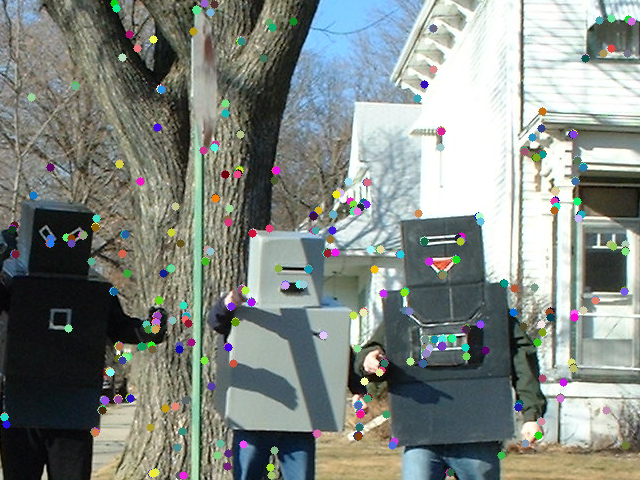
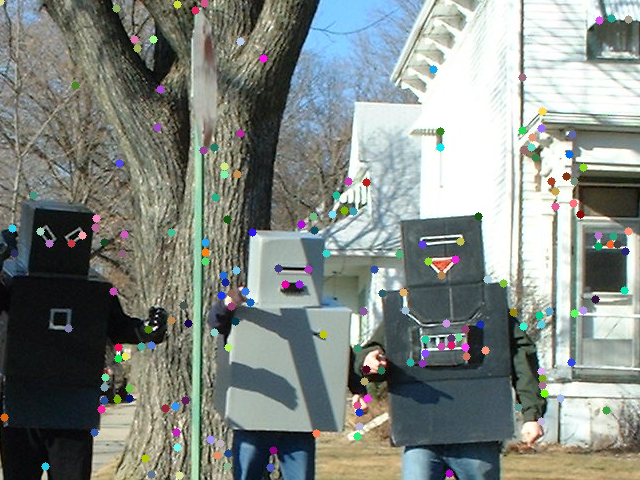
Fixed my non-maximum suppression error

diff --git a/Project_4/proj4-1-3/Gradient.cpp b/Project_4/proj4-1-3/Gradient.cpp
@@ -237,14 +237,14 @@ cv::Mat Gradient::GetHarris( double _coeff )
 /**
  * @function GetHarrisPoints
  */
-std::vector<cv::Point> Gradient::GetHarrisPoints( int _thresh, int _radius )
+std::vector<cv::Point2f> Gradient::GetHarrisPoints( int _thresh, int _radius )
 {
    mThresh = _thresh; /** 0-255 */
    mRadius = _radius; /** 3, 11? */
    // You should have called getImageHarris previously
    Thresholding( mImageHarris, mImageThresholded );
    Suppression( mImageThresholded, mImageSuppressed );
-
+  
    return mHarrisPoints;
 }
 
@@ -255,15 +255,15 @@ std::vector<cv::Point> Gradient::GetHarrisPoints( int _thresh, int _radius )
 void Gradient::Thresholding( const cv::Mat &_img, cv::Mat &_thresholded )
 {
    // Thresholding
+//   cv::threshold( _img, _thresholded, mThresh, 255, cv::THRESH_TOZERO ); 
    cv::threshold( _img, _thresholded, mThresh, 255, cv::THRESH_TOZERO ); 
-
    // Saving points
    mThreshPoints.resize(0);
    for( unsigned int j = 0; j < mRows; j++ )
    {  for( unsigned int i = 0; i < mCols; i++ )
       {
          if( _thresholded.at<uchar>(j,i) != 0 )
-         { mThreshPoints.push_back(cv::Point(i,j)); }
+         { mThreshPoints.push_back(cv::Point2f(i,j)); }
       }
    }
  
@@ -277,32 +277,43 @@ void Gradient::Suppression( const cv::Mat &_img, cv::Mat &_suppressed )
 {
    cv::Mat w;
    uchar minVal; uchar maxVal;
+   int maxIndX; int maxIndY;
+   int minIndX; int minIndY;
+
+   _suppressed = _img.clone();
 
    for( unsigned int j = 0; j < mRows - mRadius; j++ )
    {  for( unsigned int i = 0; i < mCols - mRadius; i++ )
       {
-         maxVal = 0; minVal = 255;
+         maxVal = (uchar)mThresh; minVal = 255;
 
          /// Find  min and max
-         for( unsigned int n = 0; n < mRadius; n++ )
-         {  for( unsigned int m = 0; m < mRadius; m++ )
-            {  if( _img.at<uchar>( j+n, i+m ) > maxVal )
-               { maxVal = _img.at<uchar>(j+n, i+m); }
-               if( _img.at<uchar>(j+n,i+m) < minVal )
-               { minVal = _img.at<uchar>(j+n,i+m); }
+         for( int n = mRadius; n >= -mRadius; n-- )
+         {  for( int m = mRadius; m >= -mRadius; m-- )
+            {  
+               int im = i + m; int jn = j + n;
+               if( im < 0 || im >= mCols || jn < 0 || jn >= mRows )
+               {  continue; }
+
+               if( _suppressed.at<uchar>( jn, im ) >= maxVal )
+               { maxVal = _suppressed.at<uchar>(jn, im); maxIndX = im; maxIndY = jn; }
+               if( _suppressed.at<uchar>(jn,im) < minVal )
+               { minVal = _suppressed.at<uchar>(jn, im); minIndX = im; minIndY = jn;  }
             }
          }
 
          /// Suppress!
-         for( unsigned int n = 0; n < mRadius; n++ )
-         {  for( unsigned int m = 0; m < mRadius; m++ )
-            {  if( _img.at<uchar>( j+n, i+m ) >= maxVal && maxVal != minVal )
-               { _suppressed.at<uchar>(j+n,i+m) = 255; }
-               else
-               { _suppressed.at<uchar>(j+n,i+m) = 0; }
+         for( int n = -mRadius; n <= mRadius; n++ )
+         {  for( int m = -mRadius; m <= mRadius; m++ )
+            {  
+               int im = i + m; int jn = j + n;
+               if( im < 0 || im >= mCols || jn < 0 || jn >= mRows )
+               {  continue; }
+               _suppressed.at<uchar>( jn, im ) = 0;               
             }
          }
-
+         /// Keep the max value
+         _suppressed.at<uchar>( maxIndY, maxIndX ) = maxVal;
       }
    }
 
@@ -311,11 +322,12 @@ void Gradient::Suppression( const cv::Mat &_img, cv::Mat &_suppressed )
    for( unsigned int j = 0; j < mRows; j++ )
    {  for( unsigned int i = 0; i < mCols; i++ )
       {
-         if( _suppressed.at<uchar>(j,i) == 255 )
-         { mHarrisPoints.push_back(cv::Point(i,j)); }
+         if( _suppressed.at<uchar>(j,i) >  0 )
+         { mHarrisPoints.push_back(cv::Point2f(i,j)); }
       }
    }
 }
+
 
 /**
  * @function GetImageGradientX
@@ -539,6 +551,21 @@ cv::Mat Gradient::GetImageHarris()
    return mImageHarris;
 }
 
+/**
+ * @function GetImageSuppressed
+ */
+cv::Mat Gradient::GetImageSuppressed()
+{
+   return mImageSuppressed;
+}
+
+/**
+ * @function GetImageThresholded
+ */
+cv::Mat Gradient::GetImageThresholded()
+{
+   return mImageThresholded;
+}
 
 /**
  * @function GetWindow

diff --git a/Project_4/proj4-1-3/proj4-1-3.cpp b/Project_4/proj4-1-3/proj4-1-3.cpp
@@ -7,12 +7,14 @@
 #include "Gradient.h"
 
 char* windowCorners = "Detected corners";
+char* windowThresholded = "Threshold";
+char* windowSuppressed = "Suppression";
 cv::Mat img_corners;
 cv::Mat img;
 cv::Mat imgColor;
 cv::Mat img_harris;
-int thresh = 160;
-int radius = 14;
+int thresh = 132;
+int radius = 3;
 int maxRadius = 20;
 int maxThresh = 255;
 
@@ -41,10 +43,13 @@ int main( int argc, char* argv[] )
 
    // Get gradient here
    g.GetGradients();
-   g.GetHarris( 0.106 );
+   g.GetHarris( 0.05 );
    img_harris = g.GetImageHarris();
+   
 
    cv::namedWindow( windowCorners, CV_WINDOW_NORMAL );
+   cv::namedWindow( windowSuppressed, CV_WINDOW_NORMAL );
+   cv::namedWindow( windowThresholded, CV_WINDOW_NORMAL );
    cv::createTrackbar("Thresh", windowCorners, &thresh, maxThresh, OnThresh );
    cv::createTrackbar("Radius", windowCorners, &radius, maxRadius, OnThresh );
    OnThresh(0, 0);
@@ -61,20 +66,33 @@ int main( int argc, char* argv[] )
  */
 void OnThresh( int, void* )
 {
-   std::vector<cv::Point> hp = g.GetHarrisPoints( thresh, radius );
-   printf("--> Number of corners: %d \n", hp.size() );
+   std::vector<cv::Point2f> hp = g.GetHarrisPoints( thresh, radius );
+   printf("--> Number of suppression points: %d -- threshold: %d \n", hp.size(), g.mThreshPoints.size() );
 
    img_corners = imgColor.clone();
 
    for( size_t i = 0; i < hp.size(); i++ )
    {
+      //circle( img_corners, hp[i], radius, cv::Scalar(rng.uniform(0,255), rng.uniform(0,255), rng.uniform(0,255)), 1, 8, 0 );
       circle( img_corners, hp[i], 4, cv::Scalar(rng.uniform(0,255), rng.uniform(0,255), rng.uniform(0,255)), -1, 8, 0 );
    }
 
    // Save results
    imwrite( "proj4-1-3-corners.png", img_corners );
-
+/*
+   FILE *pCorners;
+   pCorners = fopen("Corners.txt", "w");
+   for( int i = 0; i < hp.size(); i++ )
+   { fprintf( pCorners, "%f  %f \n", hp[i].x, hp[i].y  ); }
+   fclose(pCorners);
+*/
    cv::imshow( windowCorners, img_corners );
+   cv::imshow( windowSuppressed, g.GetImageSuppressed() );
+   cv::imshow( windowThresholded, g.GetImageThresholded() );
+/*
+   imwrite( "proj4-1-3-suppressed.png", g.GetImageSuppressed() );
+   imwrite( "proj4-1-3-thresholded.png", g.GetImageThresholded() );
+*/
 }
 
 

diff --git a/Project_4/proj4-1-3/Gradient.h b/Project_4/proj4-1-3/Gradient.h
@@ -35,8 +35,10 @@ class Gradient {
   cv::Mat GetImageGradientXX();
   cv::Mat GetImageGradientYY();
   cv::Mat GetImageHarris();
+  cv::Mat GetImageSuppressed();
+  cv::Mat GetImageThresholded();
 
-  std::vector<cv::Point> GetHarrisPoints( int _thresh, int _radius );
+  std::vector<cv::Point2f> GetHarrisPoints( int _thresh, int _radius );
   void Thresholding( const cv::Mat &_img, cv::Mat &_thresholded );
   void Suppression( const cv::Mat &_img, cv::Mat &_suppressed );
 
@@ -44,8 +46,8 @@ class Gradient {
   double mRadius;
   double mCoeff;
   cv::Mat mHarrisThresh;
-  std::vector<cv::Point>mThreshPoints;
-  std::vector<cv::Point> mHarrisPoints;
+  std::vector<cv::Point2f>mThreshPoints;
+  std::vector<cv::Point2f> mHarrisPoints;
 
   private:
   cv::Mat GetGradientX();

diff --git a/Project_4/proj4-1-2/proj4-1-2.cpp b/Project_4/proj4-1-2/proj4-1-2.cpp
@@ -9,7 +9,7 @@
 char* windowHarris = "Harris image";
 
 cv::Mat img_harris;
-int thresh = 80;
+int thresh = 9;
 int maxThresh = 100;
 Gradient g;
 
